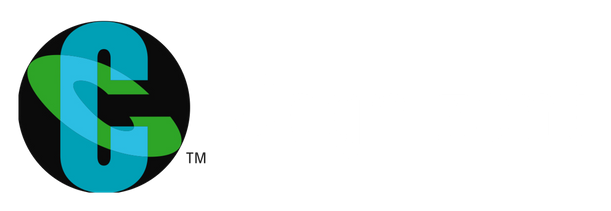
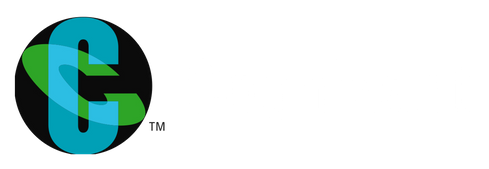
changes

diff --git a/gulpfile.js b/gulpfile.js
@@ -42,13 +42,13 @@ gulp.task("images", function() {
     .pipe(
       responsive(
         {
-          "*.jpg": { width: "50%" },
-          "*.png": { width: "50%" }
+          "*.jpg": { width: "40%" },
+          "*.png": { width: "40%" }
         },
         {
           quality: 50,
           progressive: true,
-          compressionLevel: 6,
+          compressionLevel: 4,
           withMetadata: false
         }
       )
